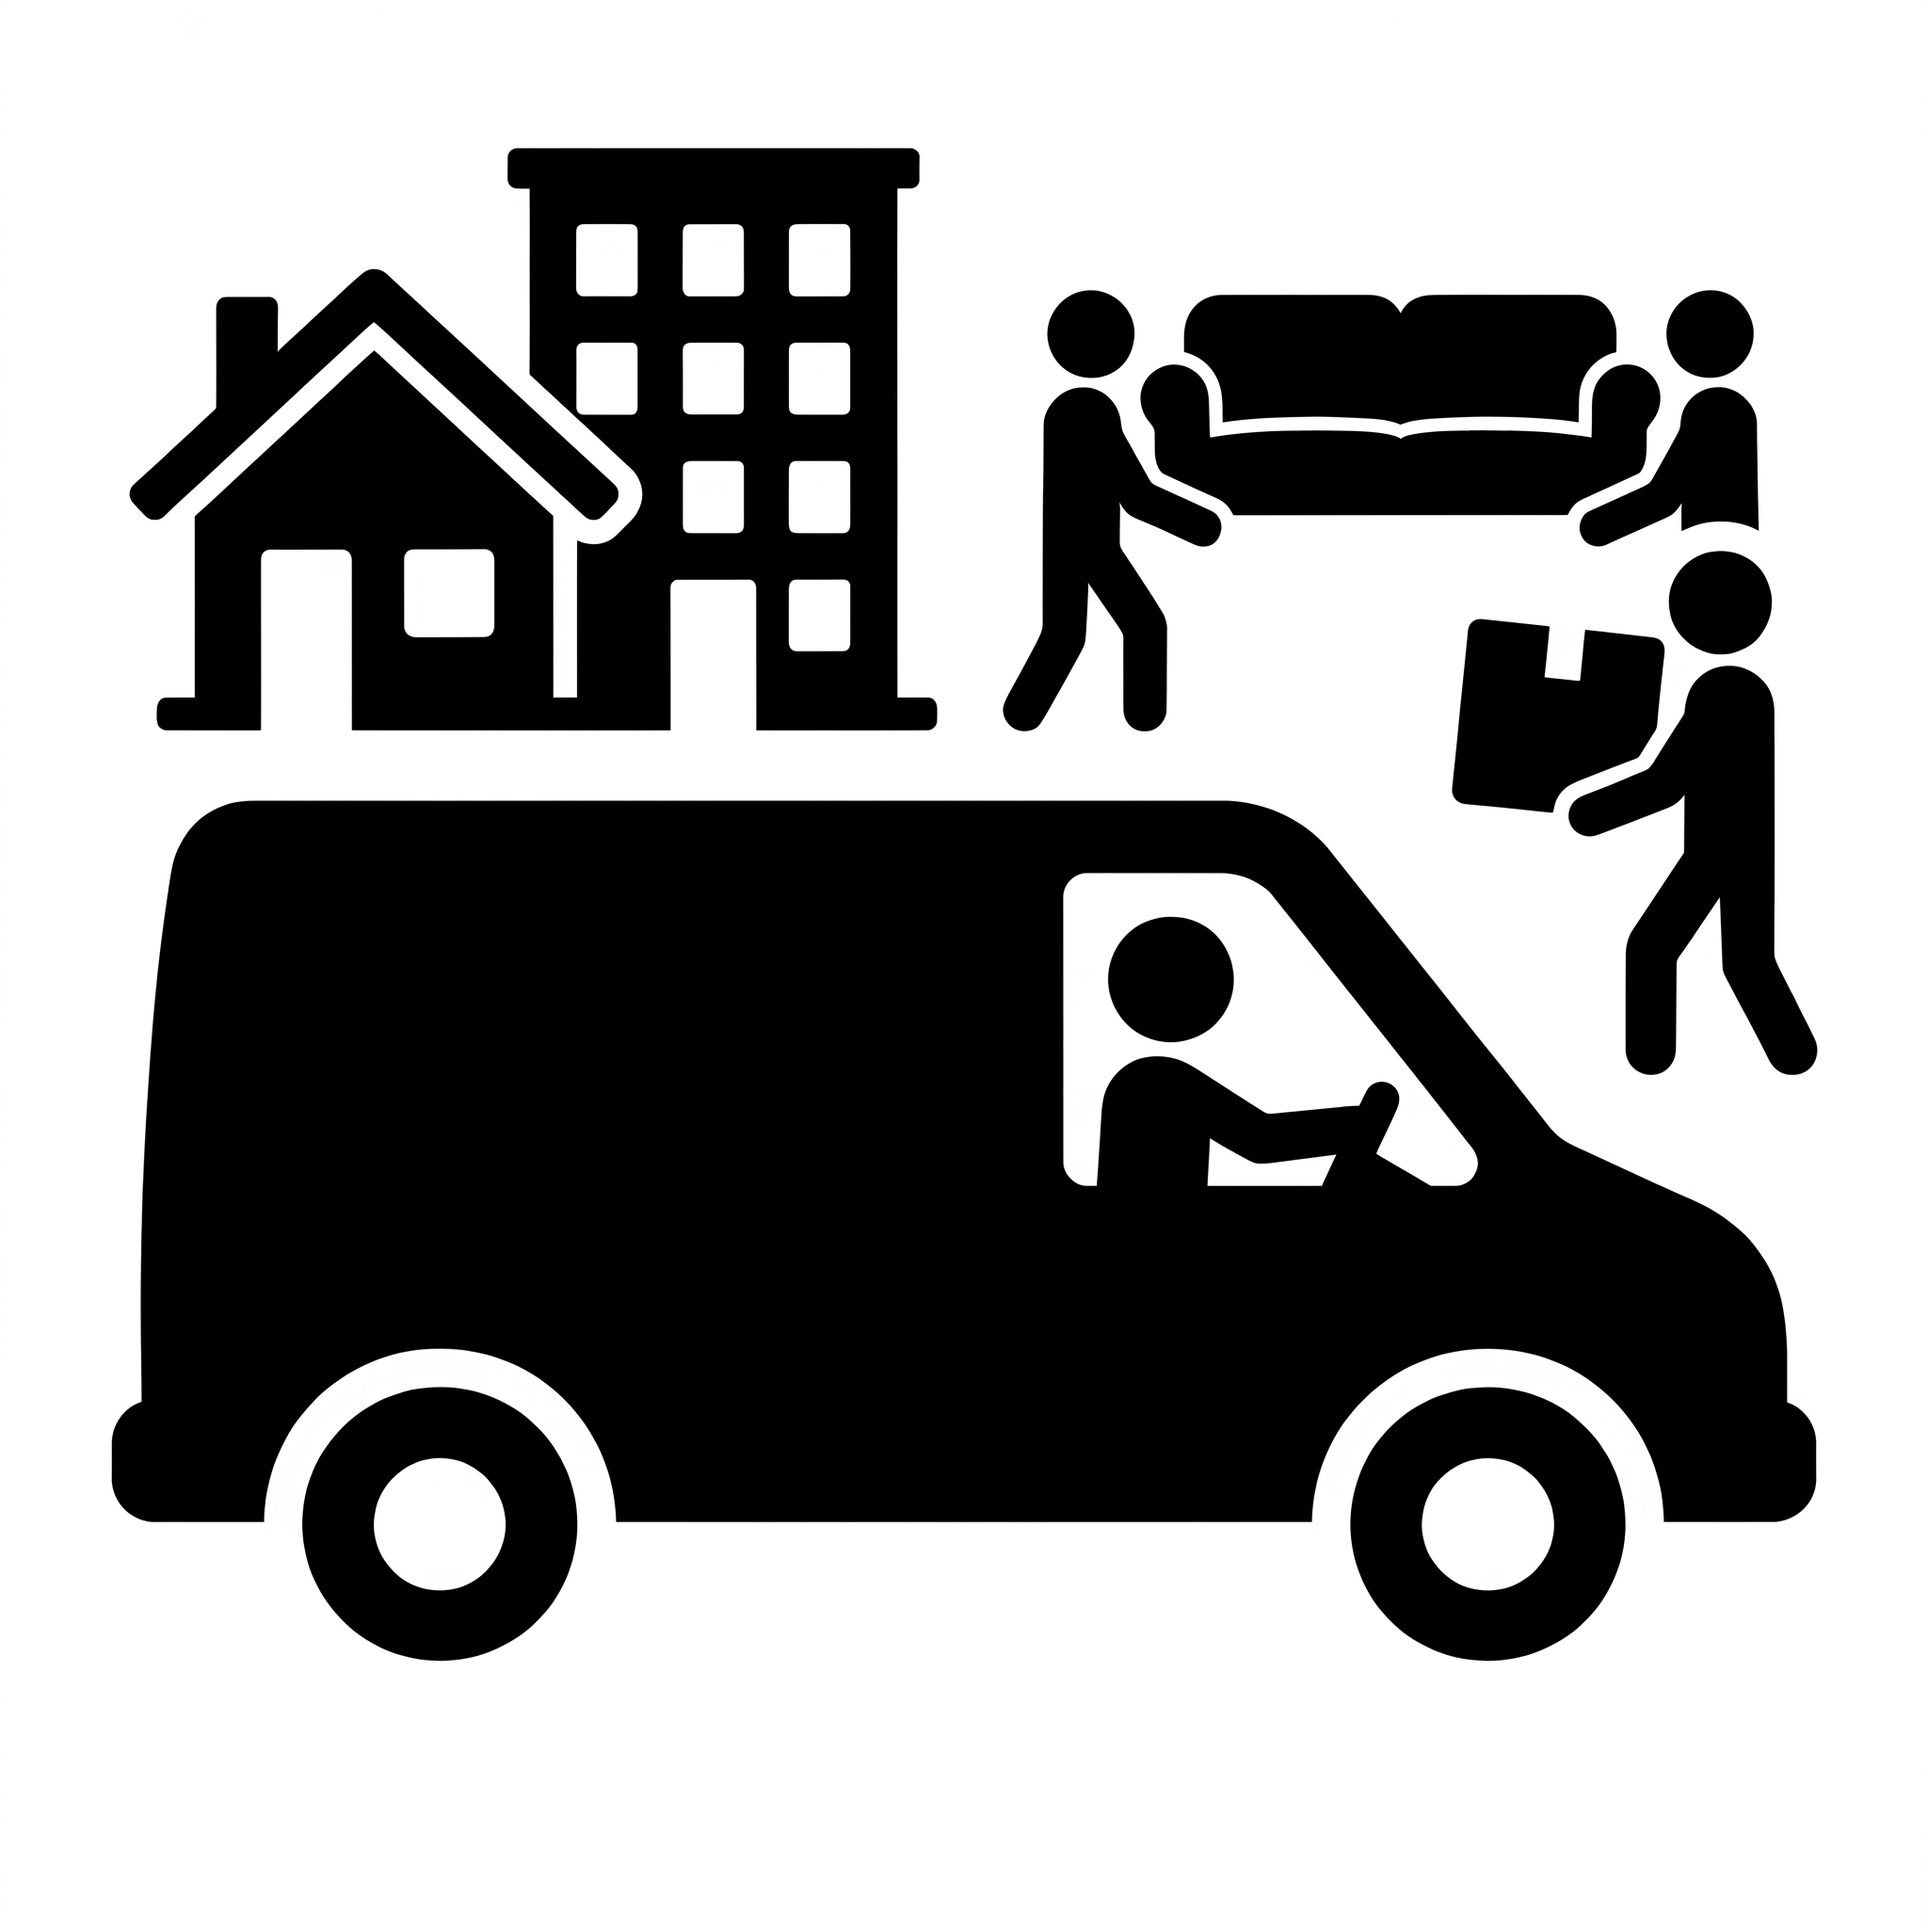
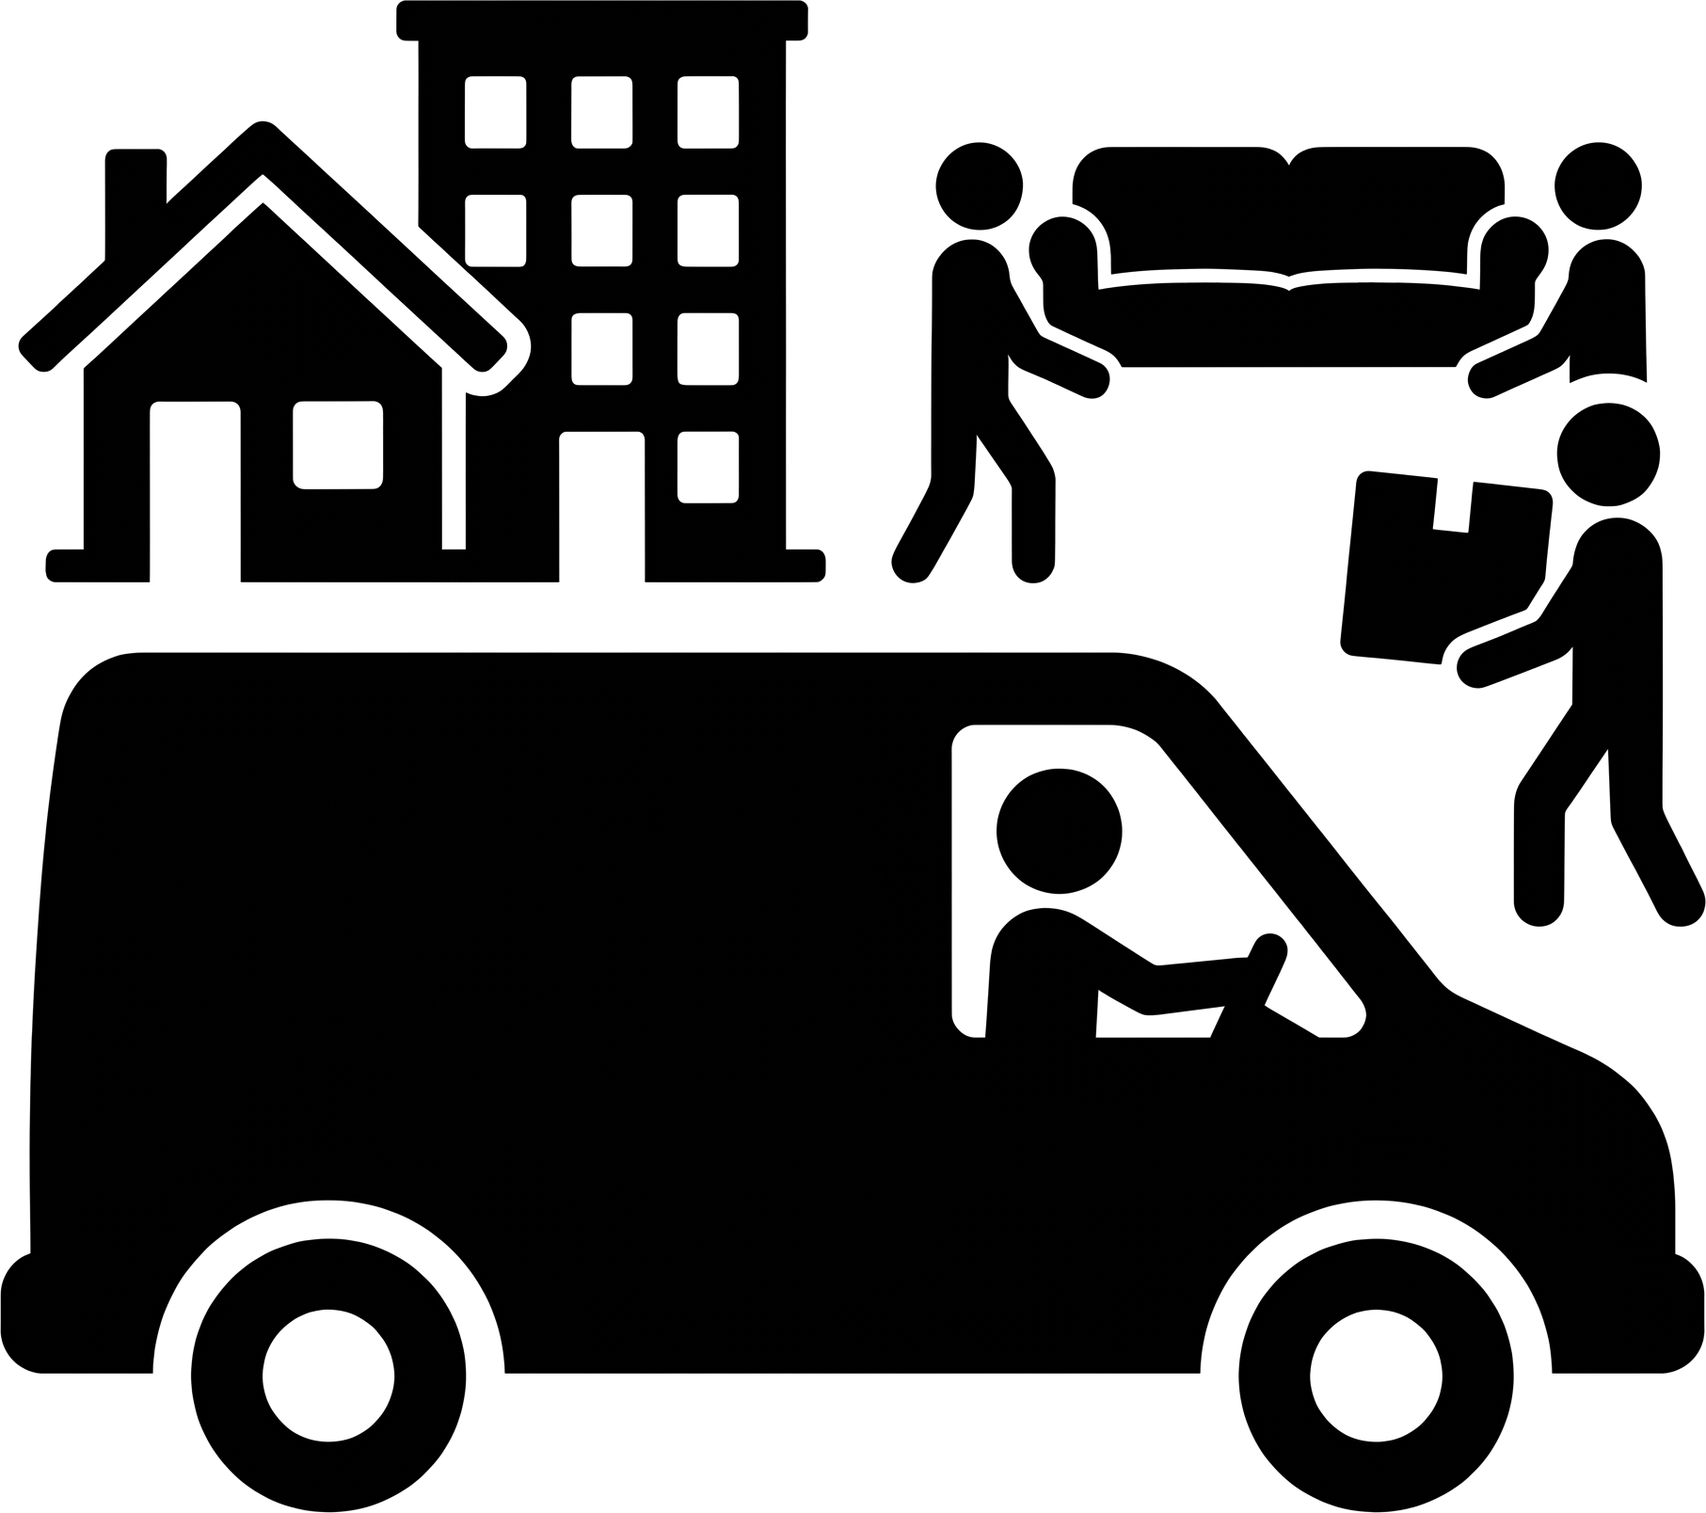
fix: polish landing sections and service artwork

diff --git a/frontend/src/features/landing/components/HowItWorksSection.tsx b/frontend/src/features/landing/components/HowItWorksSection.tsx
@@ -1,5 +1,3 @@
-import { buttonClassName } from "@/components/ui/Button";
-
 const steps = [
   {
     title: "Choose the service",
@@ -21,60 +19,36 @@ const steps = [
 
 export default function HowItWorksSection() {
   return (
-    <section
-      id="how-it-works"
-      aria-labelledby="how-it-works-heading"
-      className="bg-slate-50"
-    >
+    <section id="how-it-works" aria-labelledby="how-it-works-heading" className="bg-slate-50">
       <div className="mx-auto w-full max-w-6xl px-4 py-14 sm:px-6 sm:py-16">
-        <div className="grid gap-10 lg:grid-cols-[minmax(0,22rem)_minmax(0,1fr)] lg:gap-16">
-          <div>
-            <p className="text-xs font-semibold uppercase tracking-wider text-brand-600">
-              How it works
-            </p>
-            <h2
-              id="how-it-works-heading"
-              className="mt-3 text-3xl font-semibold tracking-tight text-ink-900 sm:text-4xl"
-            >
-              From an empty van to a confirmed booking in four steps
-            </h2>
-            <p className="mt-4 text-base leading-relaxed text-ink-500">
-              The whole process happens in the browser: you check availability, see the real price
-              and confirm the date yourself. Nothing is charged online, and you can call us at any
-              point.
-            </p>
-
-            <div className="mt-6 flex flex-wrap items-center gap-3">
-              <a href="#services" className={buttonClassName("primary")}>
-                Choose a service
-              </a>
-              <a
-                href="#pricing"
-                className="rounded-lg px-3 py-2 text-sm font-medium text-brand-700 transition hover:bg-brand-50 focus-visible:outline-2 focus-visible:outline-offset-2 focus-visible:outline-brand-600"
-              >
-                See how the price is built
-              </a>
-            </div>
-          </div>
-
-          <ol className="grid gap-4 sm:grid-cols-2">
-            {steps.map((step, index) => (
-              <li
-                key={step.title}
-                className="rounded-2xl border border-slate-200 bg-white p-6"
-              >
-                <span
-                  aria-hidden="true"
-                  className="inline-flex size-9 items-center justify-center rounded-full bg-brand-600 text-sm font-semibold text-white"
-                >
-                  {index + 1}
-                </span>
-                <h3 className="mt-4 text-base font-semibold text-ink-900">{step.title}</h3>
-                <p className="mt-2 text-sm leading-relaxed text-ink-700">{step.body}</p>
-              </li>
-            ))}
-          </ol>
+        <div className="mx-auto max-w-2xl text-center">
+          <h2
+            id="how-it-works-heading"
+            className="text-3xl font-semibold tracking-tight text-ink-900 sm:text-4xl"
+          >
+            How our company works
+          </h2>
+          <p className="mt-4 text-base leading-relaxed text-ink-500">
+            The whole process happens in the browser: you check availability, see the real price
+            and confirm the date yourself. Nothing is charged online, and you can call us at any
+            point.
+          </p>
         </div>
+
+        <ol className="mt-10 grid gap-4 sm:grid-cols-2 lg:grid-cols-4">
+          {steps.map((step, index) => (
+            <li key={step.title} className="rounded-2xl border border-slate-200 bg-white p-6">
+              <span
+                aria-hidden="true"
+                className="inline-flex size-9 items-center justify-center rounded-full bg-brand-600 text-sm font-semibold text-white"
+              >
+                {index + 1}
+              </span>
+              <h3 className="mt-4 text-base font-semibold text-ink-900">{step.title}</h3>
+              <p className="mt-2 text-sm leading-relaxed text-ink-700">{step.body}</p>
+            </li>
+          ))}
+        </ol>
       </div>
     </section>
   );

diff --git a/frontend/src/pages/public/HomePage.tsx b/frontend/src/pages/public/HomePage.tsx
@@ -1,7 +1,6 @@
 import { Link } from "react-router-dom";
 
 import { buttonClassName } from "@/components/ui/Button";
-import AfterBookingSection from "@/features/landing/components/AfterBookingSection";
 import HowItWorksSection from "@/features/landing/components/HowItWorksSection";
 import { SERVICES } from "@/lib/services";
 
@@ -102,9 +101,9 @@ export default function HomePage() {
             {SERVICES.map((service) => (
               <article
                 key={service.slug}
-                className="flex flex-col rounded-2xl border border-slate-200 bg-slate-50 p-6"
+                className="flex h-full flex-col rounded-2xl border border-slate-200 bg-slate-50 p-6"
               >
-                <div className="flex items-start gap-4">
+                <div className="flex items-center gap-4">
                   <div className="min-w-0 flex-1">
                     <h3 className="text-lg font-semibold text-ink-900">{service.name}</h3>
                     <p className="mt-2 text-sm leading-relaxed text-ink-700">{service.summary}</p>
@@ -114,7 +113,7 @@ export default function HomePage() {
                     alt=""
                     aria-hidden="true"
                     loading="lazy"
-                    className="size-24 shrink-0 object-contain"
+                    className="size-32 shrink-0 object-contain lg:size-36"
                   />
                 </div>
 
@@ -130,7 +129,7 @@ export default function HomePage() {
                   ))}
                 </ul>
 
-                <p className="mt-4 border-t border-slate-200 pt-4 text-sm leading-relaxed text-ink-500">
+                <p className="mt-auto border-t border-slate-200 pt-4 text-sm leading-relaxed text-ink-500">
                   {service.pricing}
                 </p>
 
@@ -153,7 +152,7 @@ export default function HomePage() {
 
       <section id="pricing" className="bg-slate-50">
         <div className="mx-auto w-full max-w-6xl px-4 py-14 sm:px-6 sm:py-16">
-          <div className="max-w-2xl">
+          <div className="mx-auto max-w-2xl text-center">
             <h2 className="text-3xl font-semibold tracking-tight text-ink-900 sm:text-4xl">
               How the price is calculated
             </h2>
@@ -180,13 +179,11 @@ export default function HomePage() {
             ))}
           </div>
 
-          <p className="mt-6 text-sm text-ink-500">
+          <p className="mx-auto mt-6 max-w-3xl text-center text-sm text-ink-500">
             Prices are in PLN. The quote step lists every line before you place the booking.
           </p>
         </div>
       </section>
-
-      <AfterBookingSection />
     </>
   );
 }

diff --git a/README.md b/README.md
@@ -386,7 +386,7 @@ The SPA is served by nginx with an `/index.html` fallback, so deep links can be 
 
 | Route | Purpose |
 | --- | --- |
-| `/` | Landing page: hero, how it works, the three services, the pricing method and the post-booking page |
+| `/` | Landing page: hero, how our company works, the three services and the pricing method |
 | `/book/{self-drive,van-driver,full-moving}` | Step-by-step booking wizard |
 | `/booking/{id}?token=…` | Booking confirmation, status timeline, cancellation and handover |
 | `/provider/login` | Provider sign-in |
